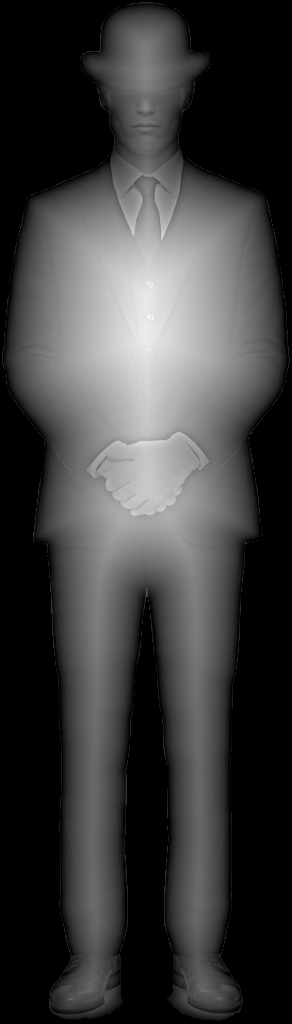
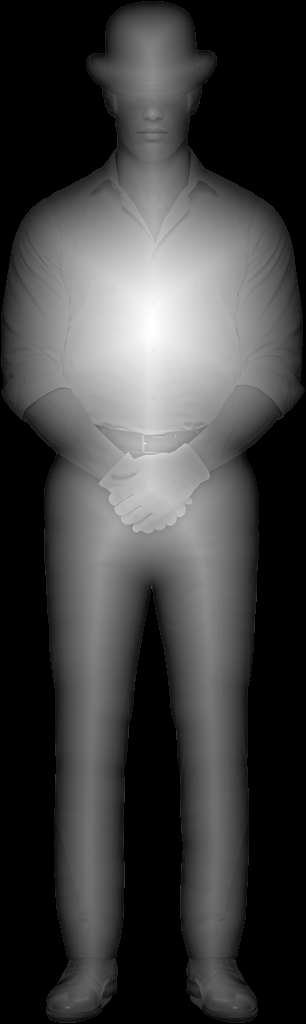
飛機拿掉擋風玻璃、窗框恢復金色；流水盆的球放大 1.5 倍、不再溢水；知音改成鐵粉朋友；管家換成白襯衫新圖
Claude-Session: https://claude.ai/code/session_01WT61VZ4MhdTC2Vy4EDZdFG

diff --git a/index.html b/index.html
@@ -442,14 +442,13 @@ let vaultF;
     const edge=[];for(let k=0;k<16;k++){const a2=k/16*Math.PI*2,l=new R.Mesh(new R.SphereGeometry(.09,8,6),new R.MeshBasicMaterial({color:0xFFD98A}));l.position.set(Math.cos(a2)*5.35,.14,Math.sin(a2)*5.35);P_.add(l);edge.push(l);}
     // 低多邊形私人噴射機（白色機身＋金色腰線），機頭朝外（+z 那側是家的正面）
     const J=new R.Group();J.position.set(.6,.62*.85,0);J.rotation.y=-Math.PI/2;J.scale.setScalar(.85);P_.add(J);
-    const white=new R.MeshStandardMaterial({color:0x2B2B30,roughness:.28,metalness:.55,emissive:0x111114,emissiveIntensity:.6}),dark=new R.MeshStandardMaterial({color:0x0A0D12,roughness:.05,metalness:.9,emissive:0x1A2430,emissiveIntensity:.5});   // 黑色機身、深色鏡面車窗與擋風（墨鏡），金色腰線
+    const white=new R.MeshStandardMaterial({color:0x2B2B30,roughness:.28,metalness:.55,emissive:0x111114,emissiveIntensity:.6}),dark=new R.MeshStandardMaterial({color:0xC9A14A,roughness:.25,metalness:.85,emissive:0x3A2808,emissiveIntensity:.3});   // 黑色機身＋金色窗框與細節（不做擋風玻璃）
     const add=(g,m,x,y,z,rx=0,ry=0,rz=0)=>{const o=new R.Mesh(g,m);o.position.set(x,y,z);o.rotation.set(rx,ry,rz);o.castShadow=true;J.add(o);return o;};
     add(new R.CylinderGeometry(.62,.62,4.6,18),white,0,.9,0,Math.PI/2);                       // 機身
     const nose=add(new R.SphereGeometry(.62,18,12,0,Math.PI*2,0,Math.PI/2),white,0,.9,2.3,Math.PI/2);nose.scale.set(1,1.9,1);
     add(new R.CylinderGeometry(.16,.62,2.4,18),white,0,1.02,-3.5,-Math.PI/2+.05);              // 機尾收細
     add(new R.BoxGeometry(.05,.12,4.4),goldM,.63,.82,-.1);add(new R.BoxGeometry(.05,.12,4.4),goldM,-.63,.82,-.1);   // 金色腰線
     for(let k=0;k<6;k++){add(new R.BoxGeometry(.04,.22,.3),dark,.61,1.12,1.4-k*.62);add(new R.BoxGeometry(.04,.22,.3),dark,-.61,1.12,1.4-k*.62);}   // 圓窗
-    add(new R.BoxGeometry(.9,.28,.5),dark,0,1.25,2.85,-.5);                                   // 駕駛艙擋風
     [-1,1].forEach(sd=>{const w=add(new R.BoxGeometry(3.6,.1,1.3),white,sd*2.1,.62,-.2,0,sd*.32,sd*-.06);   // 後掠翼
       add(new R.BoxGeometry(.08,.5,.5),white,sd*3.85,.8,-.75);                                  // 翼尖小翼
       add(new R.CylinderGeometry(.22,.2,1.3,14),white,sd*.88,1.22,-2.6,Math.PI/2);              // 尾部發動機
@@ -493,7 +492,7 @@ let vaultF;
   label(out,'蘑菇攝影棚',mx,y0+6.6,mz,'自媒體');
 }
 let fireUpdate;
-{ // 營火（知音）＋ 螢火蟲（通訊錄）
+{ // 營火（鐵粉朋友）＋ 螢火蟲（通訊錄）
   const y0=heightAt(FX,FZ),G=new R.Group();G.position.set(FX,y0,FZ);out.add(G);
   const stoneM=mat(0x9A988C);for(let i=0;i<11;i++){const a=i/11*Math.PI*2;const st=mesh(new R.DodecahedronGeometry(.22,0),stoneM,Math.cos(a)*.85,.1,Math.sin(a)*.85,G);st.scale.set(1.2,.7,1);st.rotation.y=a;}
   const logM=mat(0x7A5434);for(let i=0;i<4;i++){const l=mesh(new R.CylinderGeometry(.09,.1,1.2,7),logM,0,.18,0,G);l.rotation.set(Math.PI/2-.35,i*Math.PI/2+.4,0);}
@@ -516,7 +515,7 @@ let fireUpdate;
     kB.push({x,z,y:heightAt(x,z)+.6+rand()*2.4,p:rand()*6.28,s:.4+rand()*.6});}
   const kG=new R.BufferGeometry();kG.setAttribute('position',new R.BufferAttribute(kP,3));
   const known=new R.Points(kG,new R.PointsMaterial({color:0xF2FF9E,size:.4,map:glowTex,transparent:true,depthWrite:false}));out.add(known);
-  // 被火吸引來的光：知音（你不一定認識他們，他們從遠方被火吸引過來）
+  // 被火吸引來的光：鐵粉朋友（你不一定認識他們，他們從遠方被火吸引過來）
   const nF=70,fP=new Float32Array(nF*3),fB=[];
   for(let i=0;i<nF;i++){fB.push({a:rand()*6.28,r:6+rand()*22,tr:1.5+rand()*3,y:.8+rand()*2.4,s:.25+rand()*.5,in:.15+rand()*.5});}
   const fG=new R.BufferGeometry();fG.setAttribute('position',new R.BufferAttribute(fP,3));
@@ -529,7 +528,7 @@ let fireUpdate;
     known.material.opacity=.42+Math.sin(t*1.2)*.12;
     fB.forEach((b,i)=>{if(b.r>b.tr)b.r=Math.max(b.tr,b.r-dt*b.in);b.a+=dt*b.s*(2.2/b.r);fP[i*3]=Math.cos(b.a)*b.r;fP[i*3+1]=b.y+Math.sin(t*1.3+i)*.25;fP[i*3+2]=Math.sin(b.a)*b.r;});fG.attributes.position.needsUpdate=true;
   };
-  label(out,'營火',FX,y0+3.6,FZ,'被熱情吸引過來的知音');
+  label(out,'營火',FX,y0+3.6,FZ,'被熱情吸引過來的鐵粉朋友');
   label(out,'螢火蟲',14,heightAt(14,GZ+8)+3.4,GZ+8,'通訊錄');
 }
 {const x=riverX(EC.cz)+5.4,z=EC.cz;label(out,'記錄之河',x-3,heightAt(x,z)+3.6,z,'每天都流進來');}
@@ -742,7 +741,7 @@ F.hots=[
       const a=g.pg.attributes.position.array;for(let q=0;q<g.N;q++){a[q*3+1]+=dt*(.4+(q%5)*.1);if(a[q*3+1]>H)a[q*3+1]=0;}g.pg.attributes.position.needsUpdate=true;});};}
 { // 超級管家：站在家門口右側。不用做什麼事，看到他就知道一切都會被打理好、收好尾
   // 立體：跟守護者一樣，深度圖鼓起前後兩半＋法線打光
-  const bh=2.55,bw=bh*292/1024,tl=new R.TextureLoader(),T=u=>tl.load(u),FL=u=>{const t=tl.load(u);t.wrapS=R.RepeatWrapping;t.repeat.x=-1;t.offset.x=1;return t;};
+  const bh=2.55,bw=bh*306/1024,tl=new R.TextureLoader(),T=u=>tl.load(u),FL=u=>{const t=tl.load(u);t.wrapS=R.RepeatWrapping;t.repeat.x=-1;t.offset.x=1;return t;};
   const g=new R.PlaneGeometry(bw,bh,72,256);g.translate(0,bh/2,0);
   const mk=(flip)=>{const L=flip?FL:T,map=L(flip?'img/butler-back.webp':'img/butler.webp');
     const m=new R.Mesh(g,new R.MeshStandardMaterial({map,normalMap:L('img/butler-normal.webp'),displacementMap:L('img/butler-depth.webp'),displacementScale:.3,alphaTest:.5,roughness:.6,emissive:0xFFFFFF,emissiveMap:map,emissiveIntensity:.35}));
@@ -1030,11 +1029,8 @@ let flame,stoneBall,waterDisc;
   wTex.wrapS=wTex.wrapT=R.RepeatWrapping;
   waterDisc=mesh(new R.CircleGeometry(1.17,40),new R.MeshStandardMaterial({map:wTex,color:0xBFD8DA,roughness:.05,metalness:.35,transparent:true,opacity:.9,emissive:0x2E4A4C,emissiveIntensity:.35}),BX,.48*K,BZ,s,false);waterDisc.rotation.x=-Math.PI/2;waterDisc.scale.set(1.2*K,.95*K,1);
   const gran=canvasTex(256,128,(g,w,h)=>{g.fillStyle='#EDEBE6';g.fillRect(0,0,w,h);for(let k=0;k<1400;k++){const c=Math.random();g.fillStyle=c<.5?'rgba(120,118,112,.35)':c<.8?'rgba(80,78,74,.25)':'rgba(255,255,255,.6)';g.fillRect(Math.random()*w,Math.random()*h,1.5,1.5);}});
-  stoneBall=mesh(new R.SphereGeometry(.26*K,32,24),new R.MeshStandardMaterial({map:gran,roughness:.45}),BX,.48*K+.2*K,BZ,s);
-  // 從盆口一角溢出去的細水流＋地上的小水窪
-  const spill=mesh(new R.PlaneGeometry(.12,.36*K),new R.MeshBasicMaterial({color:0xDDEFF0,transparent:true,opacity:.55,side:R.DoubleSide,depthWrite:false}),BX+1.42*K*1.2,.18*K,BZ,s,false);spill.rotation.y=Math.PI/2;
-  const pud=mesh(new R.CircleGeometry(.32,24),new R.MeshStandardMaterial({color:0x8FA6A8,roughness:.05,metalness:.3,transparent:true,opacity:.6}),BX+1.42*K*1.2+.2,.012,BZ,s,false);pud.rotation.x=-Math.PI/2;pud.scale.set(1,.6,1);
-  AT.waterFx=(t)=>{wTex.offset.set(t*.02,t*.013);wTex.rotation=t*.03;spill.material.opacity=.45+Math.sin(t*7)*.12;};
+  stoneBall=mesh(new R.SphereGeometry(.39*K,32,24),new R.MeshStandardMaterial({map:gran,roughness:.45}),BX,.48*K+.3*K,BZ,s);
+  AT.waterFx=(t)=>{wTex.offset.set(t*.02,t*.013);wTex.rotation=t*.03;};
   AT.col.push({x0:BX-1.15,x1:BX+1.15,z0:BZ-.8,z1:BZ+.8});
   // 回 B1 的樓梯（右前方角落）
   for(let i=0;i<7;i++)boxIn(AT,1.4,.3*(i+1),.42,0xB9B2A8,WA/2-1.0,.15*(i+1),DA/2-3.4+i*.42,false);
@@ -1130,7 +1126,7 @@ const INFO={
   guardTiger:{tag:'森林 · 鍛鐵門內',title:'虎・守護者',body:'右邊這一尊是虎，你右腰的刺青：女人的力量、允許自己想要的 Elva。像守著金字塔的獅身人面像，她守著你自己的空間。'},
   river:{tag:'森林 · 記錄之河',title:'記錄之河',body:'WonderMedia 的源頭和河流：每天的日記、照片、影音、想法都流進這條河，是所有作品的原料。',list:['源頭：隨手記文字、語音、照片；想拍好看時用拍照教練','河流：所有素材依時間流下來，加標籤、挑選'],links:[['打開 WonderMedia','https://fuwei0618-cmd.github.io/WonderMedia/'],['拍照教練','https://fuwei0618-cmd.github.io/Entry/coach/']]},
   studio:{tag:'森林 · 蘑菇攝影棚',title:'工作台',body:'WonderMedia 的工作台和出海口：從記錄之河撈起素材，用你的萬用公式（積木）組成作品，再發到各個平台。',links:[['打開 WonderMedia','https://fuwei0618-cmd.github.io/WonderMedia/']],list:['工作台：企劃、腳本、剪映草稿','出海口：發布排程與成效']},
-  campfire:{tag:'森林 · 營火',title:'知音',body:'火是你的熱情。很多人是先看到你的表演、影片或 Podcast 才找過來的，你不一定認識他們，但他們會被火吸引，慢慢圍到火邊，聽懂你在唱什麼、做什麼。',list:['他們從哪裡認識你','回訪與互動','你可以為他們做的事'],soon:true},
+  campfire:{tag:'森林 · 營火',title:'鐵粉朋友',body:'火是你的熱情。很多人是先看到你的表演、影片或 Podcast 才找過來的，你不一定認識他們，但他們會被火吸引，慢慢圍到火邊，聽懂你在唱什麼、做什麼。',list:['他們從哪裡認識你','回訪與互動','你可以為他們做的事'],soon:true},
   fireflies:{tag:'森林 · 螢火蟲',title:'通訊錄',body:'每一點光，是一個跟你有連結的人。點開就是他的卡片：客觀事實、標籤、相處邊界。',soon:true},
   cal:{tag:'家 · 日曆牆',title:'日曆牆',body:'牆上掛著夢想版：兩顆北極星、到 2031 的季節時間軸、這一季的魚缸和許願池。清單不是承諾，每一季只撈一條魚出來實現。',links:[['打開夢想版','https://fuwei0618-cmd.github.io/Entry/dream/']],list:['夢想版：北極星・時間軸・魚缸・今日三題・許願池','之後：今天只做三件事、番茄鐘、每週固定排程']},
   kitchen:{tag:'家 · 廚房餐廳',title:'飲食公式',body:'固定的飲食組合，少做一個決定。',soon:true},
@@ -1301,7 +1297,7 @@ function openInfo(id){const x=INFO[id];if(!x)return;
     <div class="row">${links}<button class="btn light" data-close>回到場景</button></div>`);
   root.querySelectorAll('[data-app-url]').forEach(b=>b.addEventListener('click',()=>openApp(b.dataset.appName,b.dataset.appUrl)));}
 const PLACES=[
-  ['森林',[['森林入口','起點',['forest','start']],['光孔日晷','使命板',['forest','center']],['記錄之河','河邊',['forest','river']],['蘑菇攝影棚','自媒體',['forest','studio']],['營火','知音',['forest','campfire']],['螢火蟲','通訊錄',['forest','fireflies']],['金庫','理財 · 保險',['forest','vault']]]],
+  ['森林',[['森林入口','起點',['forest','start']],['光孔日晷','使命板',['forest','center']],['記錄之河','河邊',['forest','river']],['蘑菇攝影棚','自媒體',['forest','studio']],['營火','鐵粉朋友',['forest','campfire']],['螢火蟲','通訊錄',['forest','fireflies']],['金庫','理財 · 保險',['forest','vault']]]],
   ['家 · 1F',[['玄關','1F',['f1','front']],['日曆牆','每日 · 每週',['f1','cal']],['廚房餐廳','飲食',['f1','kitchen']],['Beauty','梳化 · 保養',['f1','closet']],['健身房','身體',['f1','gym']]]],
   ['地下',[['B1 臥室','作息 · 白水木',['f2','bed']],['B2 禱告房','前殿 · 媽祖 · 月老 · 財神',['attic','ladder']]]],
   ['舞台',[['後台入口','從家裡的舞台門進來',['stage','back']],['Vocal','',['stage','mic']],['合唱台','合唱團',['stage','choir']],['Podcast 桌','不專業音樂電台',['stage','podcast']]]]

diff --git a/README.md b/README.md
@@ -26,7 +26,7 @@
 | 森林 | 記錄之河 | 無時無刻的自我記錄，所有作品的原料 |
 | 森林 | 蘑菇攝影棚 | 自媒體：從河裡撈素材，用萬用公式（積木）組成作品 |
 | 森林 | 螢火蟲 | 通訊錄：每一點光是一個有連結的人 |
-| 森林 | 營火 | 知音：被熱情吸引過來的人，不一定是先認識的 |
+| 森林 | 營火 | 鐵粉朋友：被熱情吸引過來的人，不一定是先認識的 |
 | 家 1F | 日曆牆、廚房、衣帽間、健身房、金庫、Lucky | 每日每週排程、飲食、穿搭外型、身體、理財保險、毛孩 |
 | 家 B1 | 臥室、書桌、下沉庭院的白水木 | 作息睡眠、睡前記錄 |
 | 家 B2 | 禱告房（頭頂一道天光）、轉運流水盆 | 信仰、信念、晨間宣告 |
@@ -48,7 +48,7 @@
 - v1 原型：森林、記錄之河、蘑菇攝影棚、七個小屋、家 1F、戶外舞台與世界之門
 - v2：樓上臥室、閣樓禱告房、獨立舞台；舞台與世界之門移出森林
 - v4：房子改成 B 極簡一字型長屋；臥室移到 B1（面向下沉庭院）、禱告房移到 B2（最深處、頭頂天光縫）。越往深處越私密
-- v3：七個小屋 → 營火（知音）與螢火蟲（通訊錄）、舞台觀眾燈海、白水木移到臥室、流水盆移到禱告房
+- v3：七個小屋 → 營火（鐵粉朋友）與螢火蟲（通訊錄）、舞台觀眾燈海、白水木移到臥室、流水盆移到禱告房
 - v3.1：正式命名為 Origina
 
 ## 待辦：整體設計（之後一併處理，內容尚未確認）
